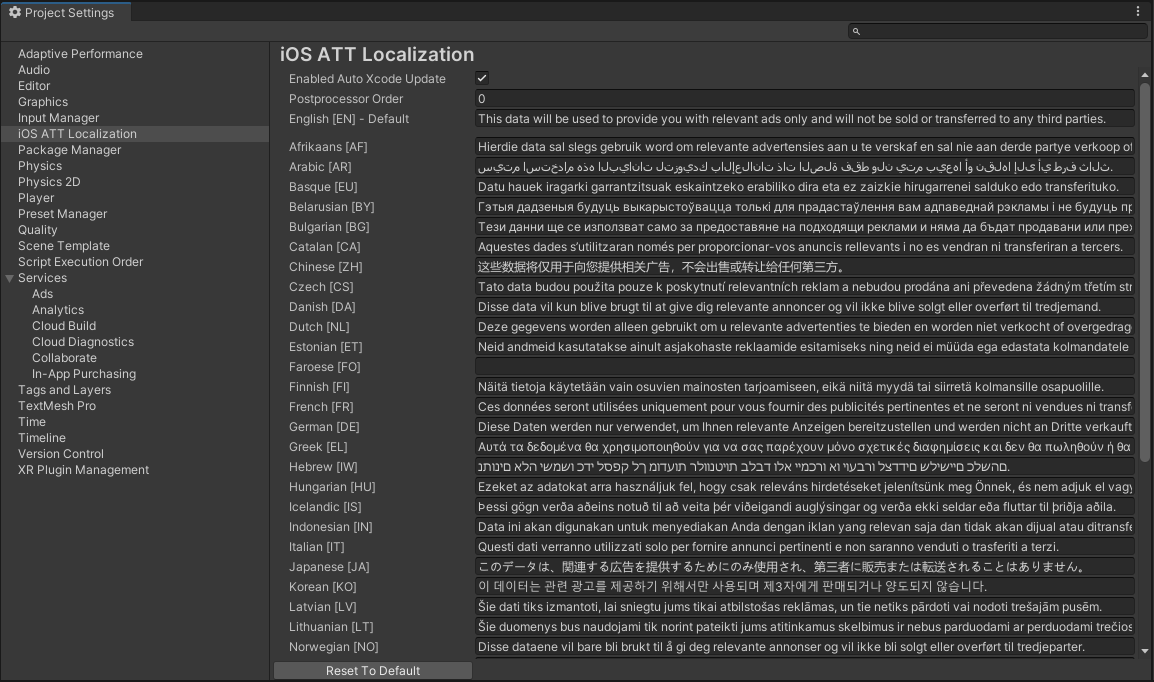
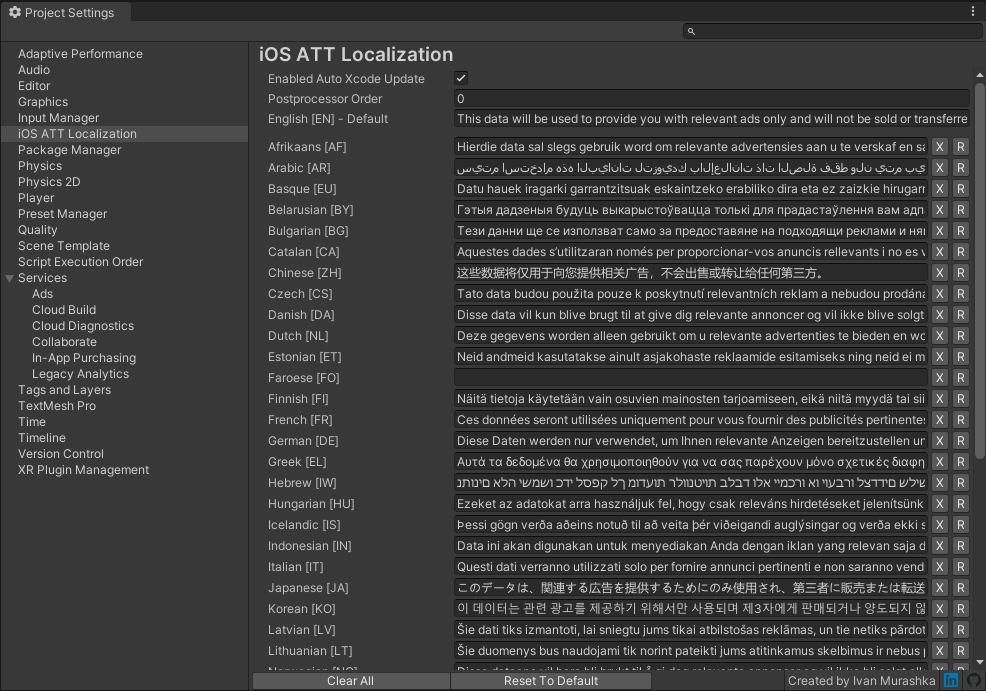
add reset and clear buttons

Changed region(s): [[0.213, 0.0616, 1.0, 1.0], [0.0, 0.0616, 0.1521, 0.7082], [0.0, 0.0, 0.1217, 0.0308]]

diff --git a/Editor/TransparencyDescriptions.cs b/Editor/TransparencyDescriptions.cs
@@ -7,12 +7,13 @@ namespace Appegy.Att.Localization
 {
     public class TransparencyDescriptions : ScriptableObject
     {
-        internal const SystemLanguage Default = SystemLanguage.English;
-
         [Serializable]
         private class LanguagesDictionary : SerializableDictionary<int, string>
         {
         }
+
+        internal const SystemLanguage Default = SystemLanguage.English;
+        private static readonly LanguagesDictionary _defaults = CreateDefault();
 
         [SerializeField]
         private bool _enabledAutoXcodeUpdate = true;
@@ -20,50 +21,7 @@ namespace Appegy.Att.Localization
         private int _postprocessorOrder;
 
         [SerializeField, HideInInspector]
-        private LanguagesDictionary _attDescriptions = new LanguagesDictionary
-        {
-            {(int) SystemLanguage.Afrikaans, "Hierdie data sal slegs gebruik word om relevante advertensies aan u te verskaf en sal nie aan derde partye verkoop of oorgedra word nie."},
-            {(int) SystemLanguage.Arabic, "سيتم استخدام هذه البيانات لتزويدك بالإعلانات ذات الصلة فقط ولن يتم بيعها أو نقلها إلى أي طرف ثالث."},
-            {(int) SystemLanguage.Basque, "Datu hauek iragarki garrantzitsuak eskaintzeko erabiliko dira eta ez zaizkie hirugarrenei salduko edo transferituko."},
-            {(int) SystemLanguage.Belarusian, "Гэтыя дадзеныя будуць выкарыстоўвацца толькі для прадастаўлення вам адпаведнай рэкламы і не будуць прададзеныя або перададзеныя трэцім бакам."},
-            {(int) SystemLanguage.Bulgarian, "Тези данни ще се използват само за предоставяне на подходящи реклами и няма да бъдат продавани или прехвърляни на трети страни."},
-            {(int) SystemLanguage.Catalan, "Aquestes dades s’utilitzaran només per proporcionar-vos anuncis rellevants i no es vendran ni transferiran a tercers."},
-            {(int) SystemLanguage.Chinese, "这些数据将仅用于向您提供相关广告，不会出售或转让给任何第三方。"},
-            {(int) SystemLanguage.ChineseSimplified, "这些数据将仅用于向您提供相关广告，不会出售或转让给任何第三方。"},
-            {(int) SystemLanguage.ChineseTraditional, "這些數據將僅用於向您提供相關廣告，不會出售或轉讓給任何第三方。"},
-            {(int) SystemLanguage.Czech, "Tato data budou použita pouze k poskytnutí relevantních reklam a nebudou prodána ani převedena žádným třetím stranám."},
-            {(int) SystemLanguage.Danish, "Disse data vil kun blive brugt til at give dig relevante annoncer og vil ikke blive solgt eller overført til tredjemand."},
-            {(int) SystemLanguage.Dutch, "Deze gegevens worden alleen gebruikt om u relevante advertenties te bieden en worden niet verkocht of overgedragen aan derden."},
-            {(int) SystemLanguage.English, "This data will be used to provide you with relevant ads only and will not be sold or transferred to any third parties."},
-            {(int) SystemLanguage.Estonian, "Neid andmeid kasutatakse ainult asjakohaste reklaamide esitamiseks ning neid ei müüda ega edastata kolmandatele osapooltele."},
-            {(int) SystemLanguage.Finnish, "Näitä tietoja käytetään vain osuvien mainosten tarjoamiseen, eikä niitä myydä tai siirretä kolmansille osapuolille."},
-            {(int) SystemLanguage.French, "Ces données seront utilisées uniquement pour vous fournir des publicités pertinentes et ne seront ni vendues ni transférées à des tiers."},
-            {(int) SystemLanguage.German, "Diese Daten werden nur verwendet, um Ihnen relevante Anzeigen bereitzustellen und werden nicht an Dritte verkauft oder weitergegeben."},
-            {(int) SystemLanguage.Greek, "Αυτά τα δεδομένα θα χρησιμοποιηθούν για να σας παρέχουν μόνο σχετικές διαφημίσεις και δεν θα πωληθούν ή θα μεταφερθούν σε τρίτους."},
-            {(int) SystemLanguage.Hebrew, "נתונים אלה ישמשו כדי לספק לך מודעות רלוונטיות בלבד ולא יימכרו או יועברו לצדדים שלישיים כלשהם."},
-            {(int) SystemLanguage.Hungarian, "Ezeket az adatokat arra használjuk fel, hogy csak releváns hirdetéseket jelenítsünk meg Önnek, és nem adjuk el vagy adjuk át harmadik félnek."},
-            {(int) SystemLanguage.Icelandic, "Þessi gögn verða aðeins notuð til að veita þér viðeigandi auglýsingar og verða ekki seldar eða fluttar til þriðja aðila."},
-            {(int) SystemLanguage.Indonesian, "Data ini akan digunakan untuk menyediakan Anda dengan iklan yang relevan saja dan tidak akan dijual atau ditransfer ke pihak ketiga mana pun."},
-            {(int) SystemLanguage.Italian, "Questi dati verranno utilizzati solo per fornire annunci pertinenti e non saranno venduti o trasferiti a terzi."},
-            {(int) SystemLanguage.Japanese, "このデータは、関連する広告を提供するためにのみ使用され、第三者に販売または転送されることはありません。"},
-            {(int) SystemLanguage.Korean, "이 데이터는 관련 광고를 제공하기 위해서만 사용되며 제3자에게 판매되거나 양도되지 않습니다."},
-            {(int) SystemLanguage.Latvian, "Šie dati tiks izmantoti, lai sniegtu jums tikai atbilstošas reklāmas, un tie netiks pārdoti vai nodoti trešajām pusēm."},
-            {(int) SystemLanguage.Lithuanian, "Šie duomenys bus naudojami tik norint pateikti jums atitinkamus skelbimus ir nebus parduodami ar perduodami trečiosioms šalims."},
-            {(int) SystemLanguage.Norwegian, "Disse dataene vil bare bli brukt til å gi deg relevante annonser og vil ikke bli solgt eller overført til tredjeparter."},
-            {(int) SystemLanguage.Polish, "Dane te będą wykorzystywane wyłącznie do dostarczania odpowiednich reklam i nie będą sprzedawane ani przekazywane stronom trzecim."},
-            {(int) SystemLanguage.Portuguese, "Esses dados serão usados apenas para fornecer anúncios relevantes e não serão vendidos ou transferidos a terceiros."},
-            {(int) SystemLanguage.Romanian, "Aceste date vor fi utilizate doar pentru a vă oferi reclame relevante și nu vor fi vândute sau transferate către terți."},
-            {(int) SystemLanguage.Russian, "Эти данные будут использоваться только для предоставления вам релевантной рекламы и не будут проданы или переданы третьим лицам."},
-            {(int) SystemLanguage.SerboCroatian, "Ови подаци ће се користити само за пружање релевантних огласа и неће се продавати нити преносити трећим странама."},
-            {(int) SystemLanguage.Slovak, "Tieto údaje budú použité len k tomu, aby vám poskytli relevantné reklamy a nebudú predané ani prevedené na žiadne tretie strany."},
-            {(int) SystemLanguage.Slovenian, "Ti podatki bodo uporabljeni samo za zagotavljanje ustreznih oglasov in ne bodo prodani ali preneseni tretjim osebam."},
-            {(int) SystemLanguage.Spanish, "Estos datos se utilizarán para proporcionarle anuncios relevantes únicamente y no se venderán ni transferirán a terceros."},
-            {(int) SystemLanguage.Swedish, "Dessa uppgifter kommer endast att användas för att ge dig relevanta annonser och kommer inte att säljas eller överföras till tredje part."},
-            {(int) SystemLanguage.Thai, "ข้อมูลนี้จะถูกนำมาใช้เพื่อให้คุณมีโฆษณาที่เกี่ยวข้องเท่านั้น และจะไม่ขายหรือโอนไปยังบุคคลที่สาม"},
-            {(int) SystemLanguage.Turkish, "Bu veriler yalnızca size ilgili reklamları sağlamak için kullanılacaktır ve herhangi bir üçüncü tarafa satılmayacak veya aktarılmayacaktır."},
-            {(int) SystemLanguage.Ukrainian, "Ці дані будуть використовуватися лише для надання вам релевантної реклами та не будуть продаватися або передаватися третім сторонам."},
-            {(int) SystemLanguage.Vietnamese, "Dữ liệu này sẽ chỉ được sử dụng để cung cấp cho bạn các quảng cáo có liên quan và sẽ không được bán hoặc chuyển giao cho bất kỳ bên thứ ba nào."},
-        };
+        private LanguagesDictionary _attDescriptions = CreateDefault();
 
         public static bool EnabledAutoXcodeUpdate
         {
@@ -97,6 +55,11 @@ namespace Appegy.Att.Localization
         {
             get => GetAttDescription(Default);
             set => SetAttDescription(Default, value);
+        }
+
+        public static string GetDefaultAttDescription(SystemLanguage language)
+        {
+            return _defaults.TryGetValue((int) language, out var translation) ? translation : string.Empty;
         }
 
         public static string GetAttDescription(SystemLanguage language)
@@ -159,6 +122,11 @@ namespace Appegy.Att.Localization
             return settings;
         }
 
+        public static void ResetToDefault(SystemLanguage language)
+        {
+            SetAttDescription(language, GetDefaultAttDescription(language));
+        }
+
         public static void ResetToDefault()
         {
             if (File.Exists(PathToSettings))
@@ -197,5 +165,53 @@ namespace Appegy.Att.Localization
         }
 
         #endregion
+
+        private static LanguagesDictionary CreateDefault()
+        {
+            return new LanguagesDictionary()
+            {
+                {(int) SystemLanguage.Afrikaans, "Hierdie data sal slegs gebruik word om relevante advertensies aan u te verskaf en sal nie aan derde partye verkoop of oorgedra word nie."},
+                {(int) SystemLanguage.Arabic, "سيتم استخدام هذه البيانات لتزويدك بالإعلانات ذات الصلة فقط ولن يتم بيعها أو نقلها إلى أي طرف ثالث."},
+                {(int) SystemLanguage.Basque, "Datu hauek iragarki garrantzitsuak eskaintzeko erabiliko dira eta ez zaizkie hirugarrenei salduko edo transferituko."},
+                {(int) SystemLanguage.Belarusian, "Гэтыя дадзеныя будуць выкарыстоўвацца толькі для прадастаўлення вам адпаведнай рэкламы і не будуць прададзеныя або перададзеныя трэцім бакам."},
+                {(int) SystemLanguage.Bulgarian, "Тези данни ще се използват само за предоставяне на подходящи реклами и няма да бъдат продавани или прехвърляни на трети страни."},
+                {(int) SystemLanguage.Catalan, "Aquestes dades s’utilitzaran només per proporcionar-vos anuncis rellevants i no es vendran ni transferiran a tercers."},
+                {(int) SystemLanguage.Chinese, "这些数据将仅用于向您提供相关广告，不会出售或转让给任何第三方。"},
+                {(int) SystemLanguage.ChineseSimplified, "这些数据将仅用于向您提供相关广告，不会出售或转让给任何第三方。"},
+                {(int) SystemLanguage.ChineseTraditional, "這些數據將僅用於向您提供相關廣告，不會出售或轉讓給任何第三方。"},
+                {(int) SystemLanguage.Czech, "Tato data budou použita pouze k poskytnutí relevantních reklam a nebudou prodána ani převedena žádným třetím stranám."},
+                {(int) SystemLanguage.Danish, "Disse data vil kun blive brugt til at give dig relevante annoncer og vil ikke blive solgt eller overført til tredjemand."},
+                {(int) SystemLanguage.Dutch, "Deze gegevens worden alleen gebruikt om u relevante advertenties te bieden en worden niet verkocht of overgedragen aan derden."},
+                {(int) SystemLanguage.English, "This data will be used to provide you with relevant ads only and will not be sold or transferred to any third parties."},
+                {(int) SystemLanguage.Estonian, "Neid andmeid kasutatakse ainult asjakohaste reklaamide esitamiseks ning neid ei müüda ega edastata kolmandatele osapooltele."},
+                {(int) SystemLanguage.Finnish, "Näitä tietoja käytetään vain osuvien mainosten tarjoamiseen, eikä niitä myydä tai siirretä kolmansille osapuolille."},
+                {(int) SystemLanguage.French, "Ces données seront utilisées uniquement pour vous fournir des publicités pertinentes et ne seront ni vendues ni transférées à des tiers."},
+                {(int) SystemLanguage.German, "Diese Daten werden nur verwendet, um Ihnen relevante Anzeigen bereitzustellen und werden nicht an Dritte verkauft oder weitergegeben."},
+                {(int) SystemLanguage.Greek, "Αυτά τα δεδομένα θα χρησιμοποιηθούν για να σας παρέχουν μόνο σχετικές διαφημίσεις και δεν θα πωληθούν ή θα μεταφερθούν σε τρίτους."},
+                {(int) SystemLanguage.Hebrew, "נתונים אלה ישמשו כדי לספק לך מודעות רלוונטיות בלבד ולא יימכרו או יועברו לצדדים שלישיים כלשהם."},
+                {(int) SystemLanguage.Hungarian, "Ezeket az adatokat arra használjuk fel, hogy csak releváns hirdetéseket jelenítsünk meg Önnek, és nem adjuk el vagy adjuk át harmadik félnek."},
+                {(int) SystemLanguage.Icelandic, "Þessi gögn verða aðeins notuð til að veita þér viðeigandi auglýsingar og verða ekki seldar eða fluttar til þriðja aðila."},
+                {(int) SystemLanguage.Indonesian, "Data ini akan digunakan untuk menyediakan Anda dengan iklan yang relevan saja dan tidak akan dijual atau ditransfer ke pihak ketiga mana pun."},
+                {(int) SystemLanguage.Italian, "Questi dati verranno utilizzati solo per fornire annunci pertinenti e non saranno venduti o trasferiti a terzi."},
+                {(int) SystemLanguage.Japanese, "このデータは、関連する広告を提供するためにのみ使用され、第三者に販売または転送されることはありません。"},
+                {(int) SystemLanguage.Korean, "이 데이터는 관련 광고를 제공하기 위해서만 사용되며 제3자에게 판매되거나 양도되지 않습니다."},
+                {(int) SystemLanguage.Latvian, "Šie dati tiks izmantoti, lai sniegtu jums tikai atbilstošas reklāmas, un tie netiks pārdoti vai nodoti trešajām pusēm."},
+                {(int) SystemLanguage.Lithuanian, "Šie duomenys bus naudojami tik norint pateikti jums atitinkamus skelbimus ir nebus parduodami ar perduodami trečiosioms šalims."},
+                {(int) SystemLanguage.Norwegian, "Disse dataene vil bare bli brukt til å gi deg relevante annonser og vil ikke bli solgt eller overført til tredjeparter."},
+                {(int) SystemLanguage.Polish, "Dane te będą wykorzystywane wyłącznie do dostarczania odpowiednich reklam i nie będą sprzedawane ani przekazywane stronom trzecim."},
+                {(int) SystemLanguage.Portuguese, "Esses dados serão usados apenas para fornecer anúncios relevantes e não serão vendidos ou transferidos a terceiros."},
+                {(int) SystemLanguage.Romanian, "Aceste date vor fi utilizate doar pentru a vă oferi reclame relevante și nu vor fi vândute sau transferate către terți."},
+                {(int) SystemLanguage.Russian, "Эти данные будут использоваться только для предоставления вам релевантной рекламы и не будут проданы или переданы третьим лицам."},
+                {(int) SystemLanguage.SerboCroatian, "Ови подаци ће се користити само за пружање релевантних огласа и неће се продавати нити преносити трећим странама."},
+                {(int) SystemLanguage.Slovak, "Tieto údaje budú použité len k tomu, aby vám poskytli relevantné reklamy a nebudú predané ani prevedené na žiadne tretie strany."},
+                {(int) SystemLanguage.Slovenian, "Ti podatki bodo uporabljeni samo za zagotavljanje ustreznih oglasov in ne bodo prodani ali preneseni tretjim osebam."},
+                {(int) SystemLanguage.Spanish, "Estos datos se utilizarán para proporcionarle anuncios relevantes únicamente y no se venderán ni transferirán a terceros."},
+                {(int) SystemLanguage.Swedish, "Dessa uppgifter kommer endast att användas för att ge dig relevanta annonser och kommer inte att säljas eller överföras till tredje part."},
+                {(int) SystemLanguage.Thai, "ข้อมูลนี้จะถูกนำมาใช้เพื่อให้คุณมีโฆษณาที่เกี่ยวข้องเท่านั้น และจะไม่ขายหรือโอนไปยังบุคคลที่สาม"},
+                {(int) SystemLanguage.Turkish, "Bu veriler yalnızca size ilgili reklamları sağlamak için kullanılacaktır ve herhangi bir üçüncü tarafa satılmayacak veya aktarılmayacaktır."},
+                {(int) SystemLanguage.Ukrainian, "Ці дані будуть використовуватися лише для надання вам релевантної реклами та не будуть продаватися або передаватися третім сторонам."},
+                {(int) SystemLanguage.Vietnamese, "Dữ liệu này sẽ chỉ được sử dụng để cung cấp cho bạn các quảng cáo có liên quan và sẽ không được bán hoặc chuyển giao cho bất kỳ bên thứ ba nào."},
+            };
+        }
     }
 }

diff --git a/Editor/TransparencyDescriptionsSettingsProvider.cs b/Editor/TransparencyDescriptionsSettingsProvider.cs
@@ -8,11 +8,26 @@ namespace Appegy.Att.Localization
 {
     internal static class TransparencyDescriptionsSettingsProvider
     {
-        private static HashSet<SystemLanguage> _checkedLanguages = new HashSet<SystemLanguage>();
-        
+        private static readonly HashSet<SystemLanguage> _checkedLanguages = new HashSet<SystemLanguage>();
+        private static Texture2D _linkedinIcon;
+        private static Texture2D _githubIcon;
+        private static GUIContent _clearButtonStyle;
+        private static GUIContent _resetButtonStyle;
+        private static GUIContent _linkedinContent;
+        private static GUIContent _githubContent;
+
         [SettingsProvider]
         public static SettingsProvider CreateAttSettingsProvider()
         {
+            _linkedinIcon = AssetDatabase.LoadAssetAtPath<Texture2D>("Packages/org.appegy.att-loc/Images/LinkedIn.png");
+            _githubIcon = AssetDatabase.LoadAssetAtPath<Texture2D>("Packages/org.appegy.att-loc/Images/Github.png");
+            _clearButtonStyle = new GUIContent("X", $"Clear translation and use {Default} instead");
+            _resetButtonStyle = new GUIContent("R", "Revert translation to Default value");
+            _linkedinContent = new GUIContent(_linkedinIcon);
+            _githubContent = new GUIContent(_githubIcon);
+
+            Debug.Log(_linkedinIcon != null);
+
             var provider = new SettingsProvider($"Project/iOS ATT Localization", SettingsScope.Project)
             {
                 guiHandler = (searchContext) =>
@@ -32,7 +47,7 @@ namespace Appegy.Att.Localization
                     }
                     GUI.enabled = EnabledAutoXcodeUpdate && !string.IsNullOrEmpty(DefaultDescription);
                     EditorGUILayout.Space();
-                    
+
                     _checkedLanguages.Clear();
                     foreach (SystemLanguage language in Enum.GetValues(typeof(SystemLanguage)))
                     {
@@ -48,11 +63,21 @@ namespace Appegy.Att.Localization
                                 continue;
                         }
                         var translation = GetAttDescription(language);
+                        EditorGUILayout.BeginHorizontal();
                         var newValue = EditorGUILayout.TextField($"{language} [{language.GetLocalCodeIOS()}]", translation);
                         if (translation != newValue)
                         {
                             SetAttDescription(language, newValue);
                         }
+                        if (GUILayout.Button(_clearButtonStyle, GUILayout.Width(18)))
+                        {
+                            SetAttDescription(language, string.Empty);
+                        }
+                        if (GUILayout.Button(_resetButtonStyle, GUILayout.Width(18)))
+                        {
+                            ResetToDefault(language);
+                        }
+                        EditorGUILayout.EndHorizontal();
                     }
 
                     GUI.enabled = guiEnabled;
@@ -60,12 +85,36 @@ namespace Appegy.Att.Localization
                 },
                 footerBarGuiHandler = () =>
                 {
-                    if (GUILayout.Button("Reset To Default", GUILayout.Width(200)))
+                    EditorGUILayout.BeginHorizontal();
+                    if (GUILayout.Button("Clear All", EditorStyles.miniButtonLeft, GUILayout.Width(200)))
+                    {
+                        foreach (SystemLanguage language in Enum.GetValues(typeof(SystemLanguage)))
+                        {
+                            switch (language)
+                            {
+                                case Default:
+                                case SystemLanguage.Unknown:
+                                    continue;
+                            }
+                            SetAttDescription(language, string.Empty);
+                        }
+                    }
+                    if (GUILayout.Button("Reset To Default", EditorStyles.miniButtonRight, GUILayout.Width(200)))
                     {
                         ResetToDefault();
                     }
+                    GUILayout.Label("");
+                    GUILayout.Label("Created by Ivan Murashka", EditorStyles.toolbarButton, GUILayout.Width(155));
+                    if (GUILayout.Button(_linkedinContent, EditorStyles.toolbarButton, GUILayout.Width(23), GUILayout.Height(18)))
+                    {
+                        Application.OpenURL("https://www.linkedin.com/in/imurashka/");
+                    }
+                    if (GUILayout.Button(_githubContent, EditorStyles.toolbarButton, GUILayout.Width(23), GUILayout.Height(18)))
+                    {
+                        Application.OpenURL("https://github.com/imurashka/");
+                    }
+                    EditorGUILayout.EndHorizontal();
                 },
-
                 keywords = new HashSet<string>(new[] {"att", "ios"}),
             };
 

diff --git a/README.md b/README.md
@@ -3,6 +3,7 @@
 
 ## Description
 ![alt](Images/Preview.png)
+
 Provides localization of iOS App Tracking Transparency (ATT) descriptions. Perfectly works with oficial Unity's [iOS 14 Advertising Support](https://docs.unity3d.com/Packages/com.unity.ads.ios-support@1.0/manual/index.html) package.
 
 ## Installation
